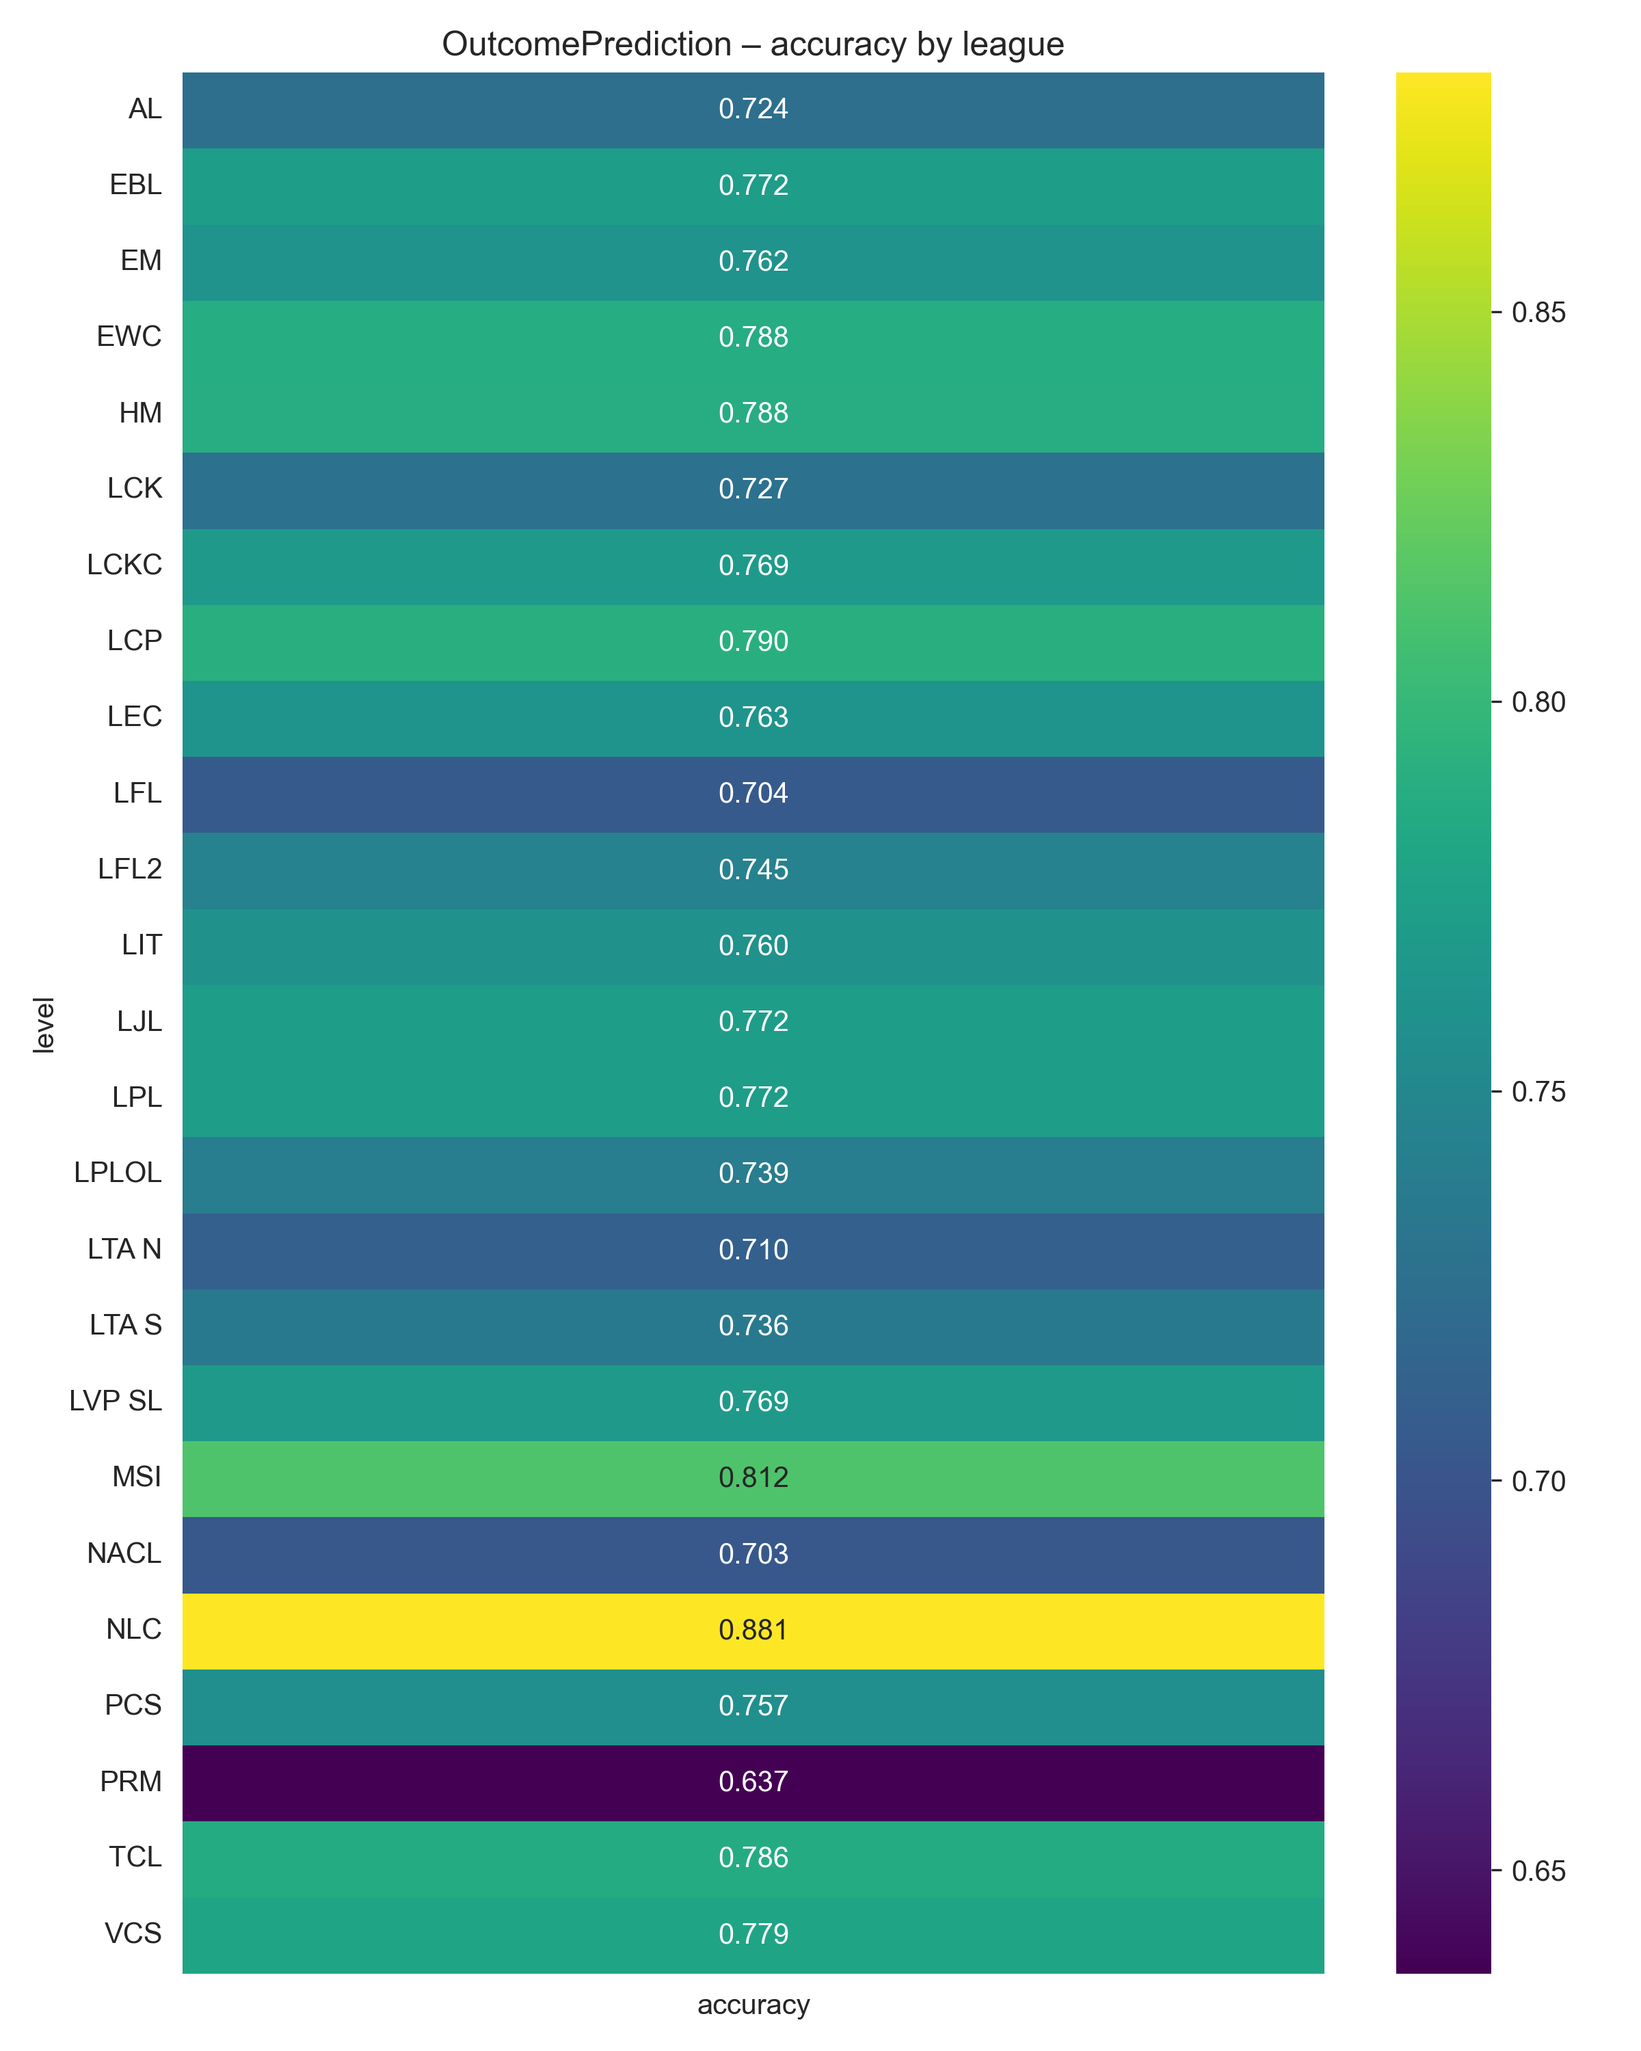
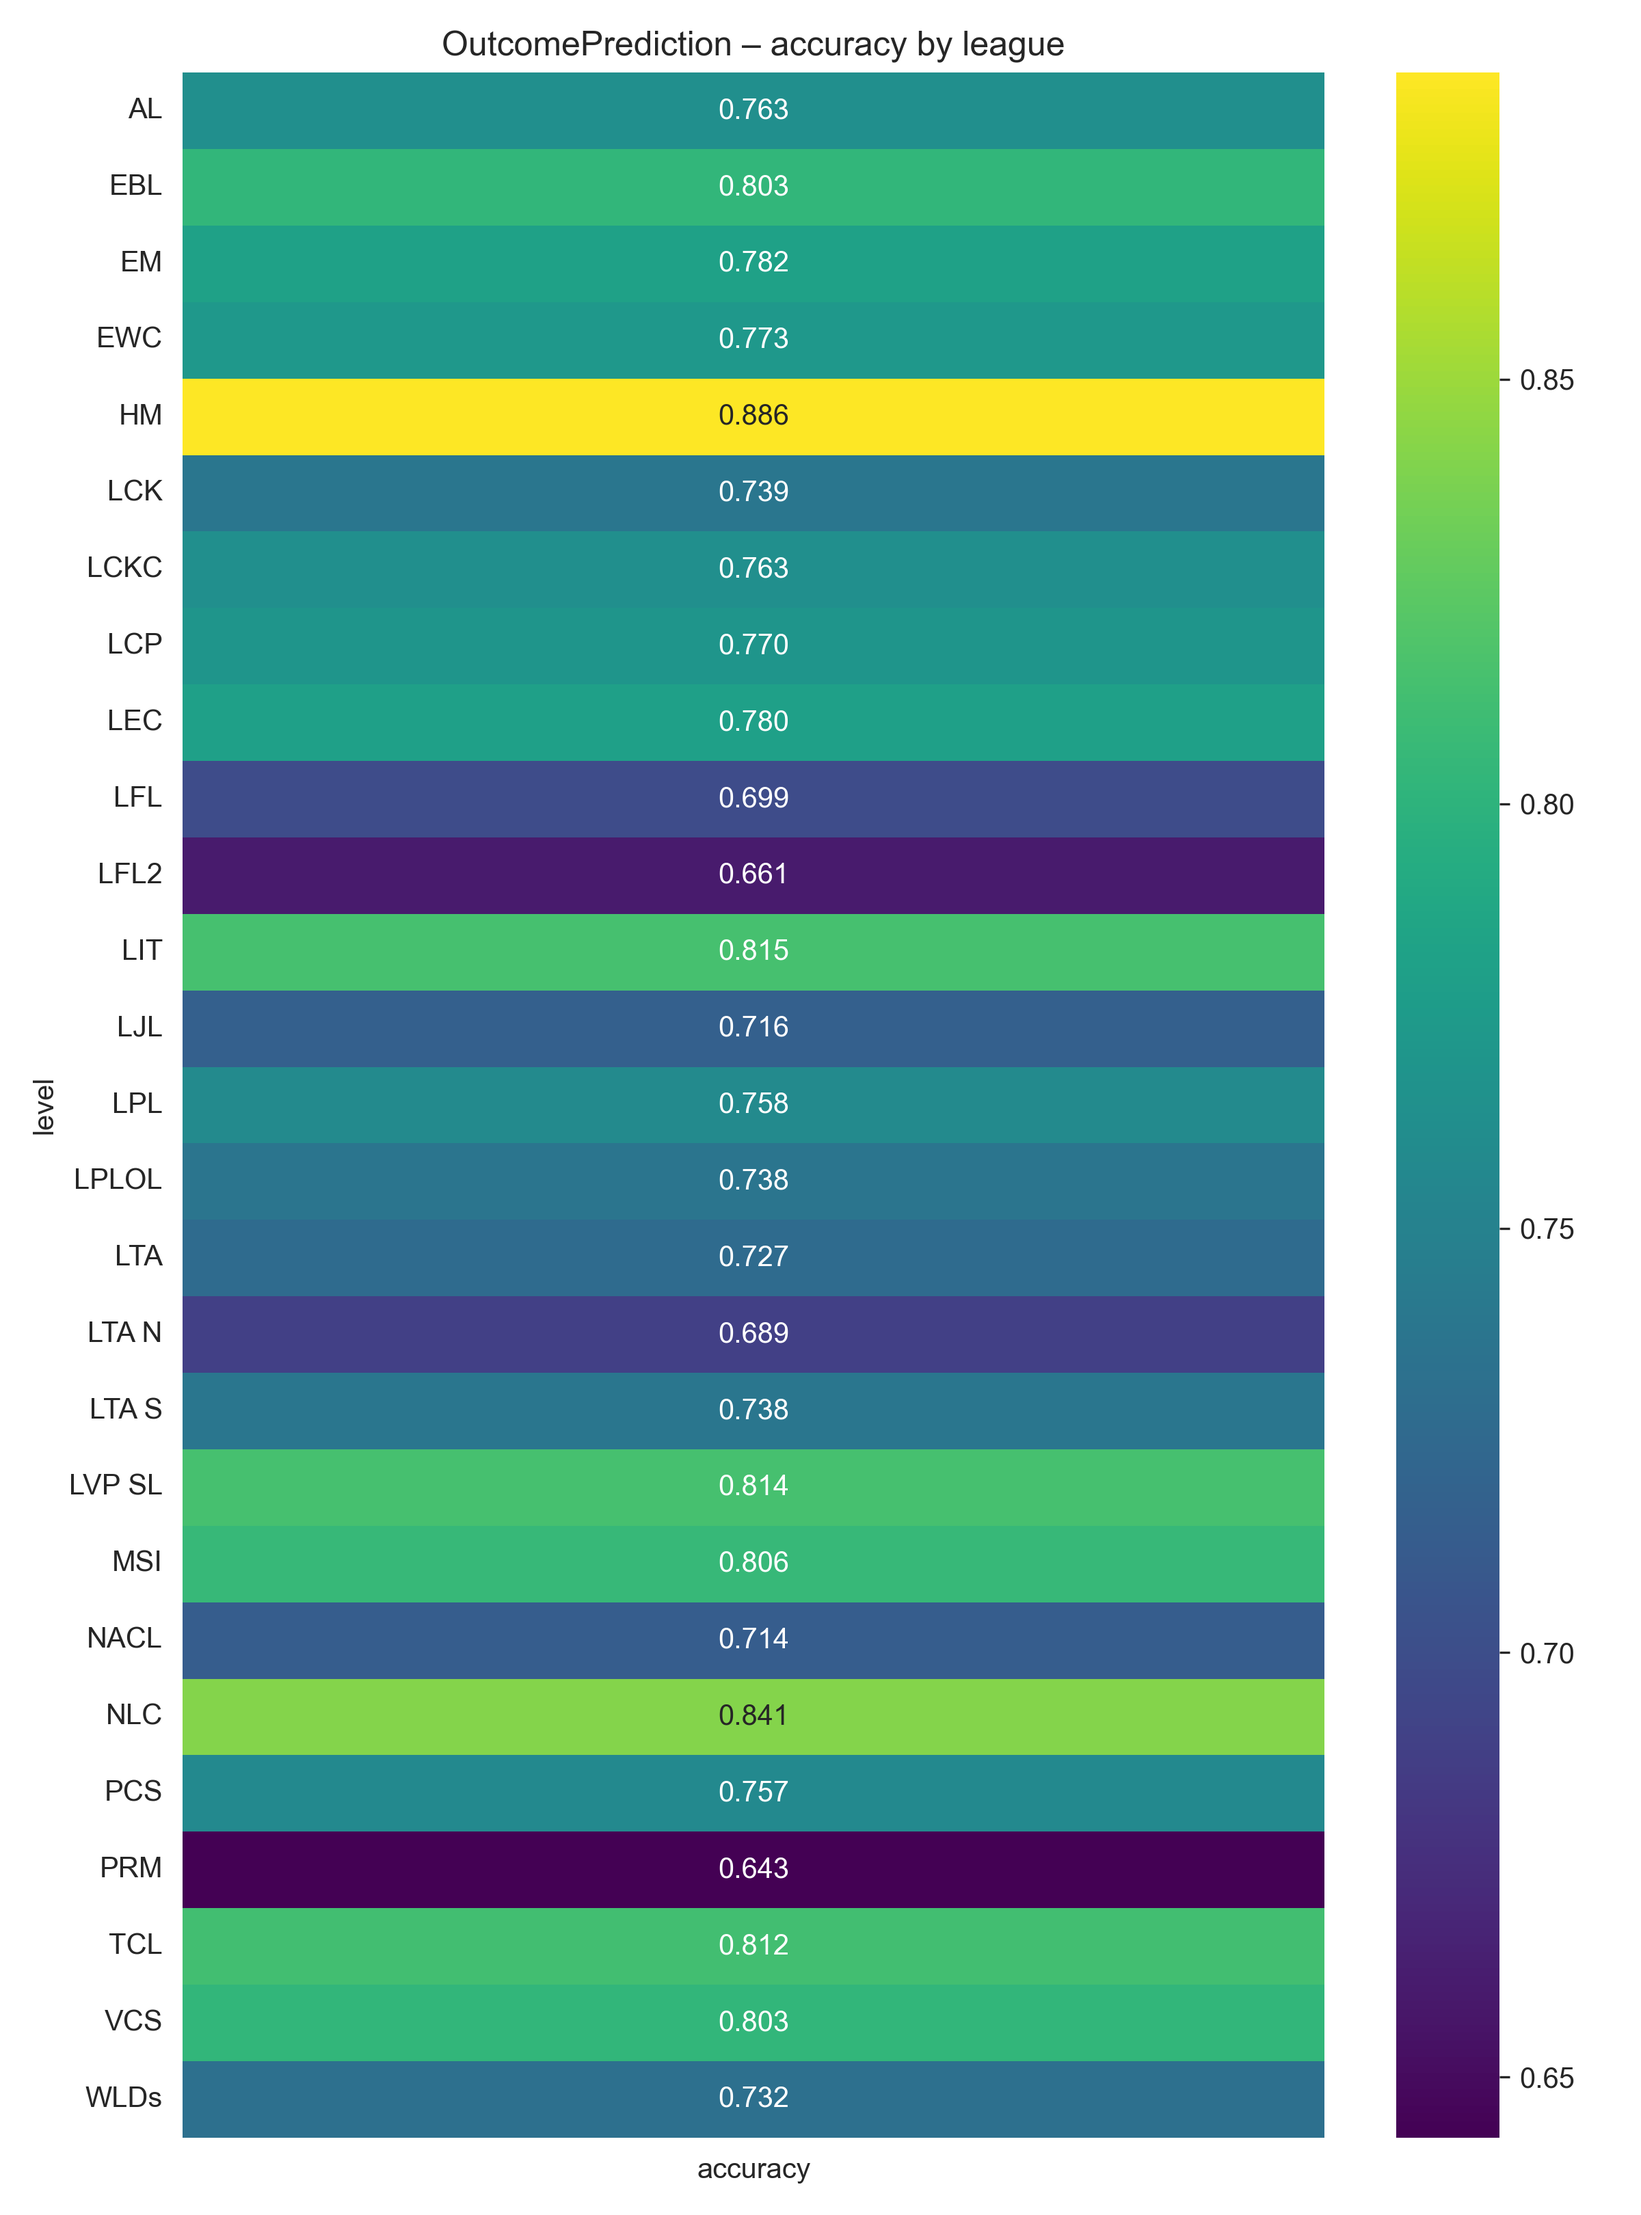
.

diff --git a/src/prediction_models/lightgbm_model.py b/src/prediction_models/lightgbm_model.py
@@ -31,7 +31,7 @@ if TYPE_CHECKING:
 
 # Lightweight, good defaults for laptop runs
 _DEFAULT_N_ESTIMATORS = 3000
-_EARLY_STOP_ROUNDS = 100
+_EARLY_STOP_ROUNDS = 1
 _RANDOM_STATE = 42
 
 

diff --git a/future_improvals.md b/future_improvals.md
@@ -54,3 +54,4 @@ Profit-aware evaluation: besides logloss & calibration curves, track backtested 
 # TODOs
 - Add code documentation with MKDocs
 - Re-do notebooks with new data and new features
+- Come aggiustare i diversi gruppi in LCK / LPL coi team forti del gruppo sotto che sembrano broken ma sucano
